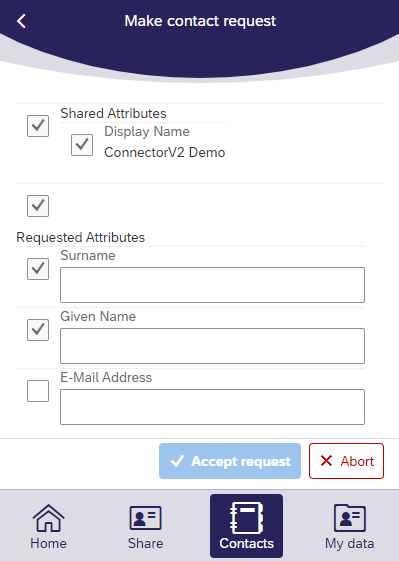
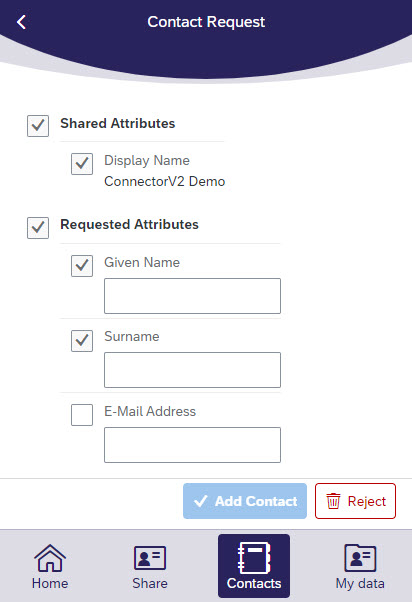
Fix/several-minor-connector-tutorial-improvements (#85)
* fix: connector tutorial improvements

* fix: typo

* chore: change comment in json

* fix: implement Simon's feedback

* feat: use copy-notice include in requests-over-templates

* chore: remember -> save

* chore: clarify that only the v2 App is not yet released

* fix: typo

diff --git a/_docs_integrate/01-connector-tutorial.md b/_docs_integrate/01-connector-tutorial.md
@@ -6,21 +6,25 @@ toc: true
 
 In this tutorial we go through the basic steps necessary to establish a Relationship to another Identity and send Messages between two Identities with an existing Relationship. This will create a better understanding of these processes, which will help you automating them for your organization.
 
-The following steps include small pieces of the Connector's API documentation that, when executed, fire requests on a Connector created for testing purposes. So if you don't have an own Connector installed, feel free to use the samples directly. Otherwise you can use your own Connector either with a REST client (e.g. [Insomnia](https://insomnia.rest/) or [Postman](https://www.postman.com/)) or by using the RapiDoc documentation (`/docs/rapidoc`) hosted on your Connector (you have to [enable docs on your connector]({% link _docs_integrate/11-connector-configuration.md %}#corehttpapi) for the documentation route to work).
+The following steps include small interactive pieces of the Connector's API documentation that, when executed, fire requests on a Connector we provided for testing purposes. Example:
+{% include rapidoc api_route_regex="^get /health$" title="" %}
 
-The payloads for the requests that will be performed during this tutorial contain placeholders marked with `<...>`. Please replace them with values.
+So if you don't have an own Connector installed, feel free to use the samples directly by unfolding them and clicking on "Try". Otherwise you can use your own Connector either with a REST client (e.g. Insomnia or Postman) or by using the RapiDoc documentation (/docs/rapidoc) hosted on your Connector.
+
+The payloads for the requests that are sent during this tutorial contain placeholders marked with `<...>`. You need to replace them with values before you send the request.
 
 # Prerequisites
 
--   If you want to use your own Connector for executing the examples
-    -   [Install the Connector]({% link _docs_integrate/10-connector-installation.md %})
-    -   Make sure the [Sync Module is disabled]({% link _docs_integrate/11-connector-configuration.md %}#sync) (because in this tutorial we will synchronize manually via the HTTP endpoint)
-    -   Get the API key configured for the Connector. Ask the person who installed the Connector for it.
--   You need the [Enmeshed App]({% link _pages/use.md %}) installed on your mobile device (in this tutorial we refer to the UI texts in English).
+-   If you want to use your own Connector for executing the examples:
+    -   [Install the Connector](https://enmeshed.eu/integrate/connector-installation)
+    -   Make sure the [Sync Module is disabled](https://enmeshed.eu/integrate/connector-configuration#sync) (because in this tutorial we will synchronize manually via the HTTP endpoint)
+    -   Make sure the [docs are enabled](https://enmeshed.eu/integrate/connector-configuration#corehttpapi) for the documentation route to work
+    -   Get the API key that was configured during installation of the Connector (it needs to be sent in the `X-API-KEY` header of every HTTP request)
+-   You need **version 2** of the [Enmeshed App]({% link _pages/use.md %}) installed on your mobile device. _Since the Enmeshed v2 app is not officially released yet, you need to [write us an email](mailto://info@enmeshed.eu?subject=Access%20to%20the%20closed%20beta%20of%20Enmeshed%20v2) with your Apple ID or the email address of your Google account you use on your phone, so we can add you to the closed beta._
 
 # Establishing Relationships
 
-In order to communicate with another Identity, a Relationship to that Identity is required. In this first part of the tutorial you will learn how to establish a Relationship between your Connector and another Identity. In this case the other Identity will be the using the App, but it could be another Connector as well.
+In order to communicate with another Identity, a Relationship to that Identity is required. In this first part of the tutorial you will learn how to establish a Relationship between your Connector and another Identity. In this case the other Identity will be the App, but it could be another Connector as well.
 
 ## Connector: Create an Attribute
 
@@ -30,7 +34,7 @@ In order to share an Attribute via a Relationship Template, we need to create on
 {
     "content": {
         "@type": "IdentityAttribute",
-        "owner": "<your connector's identity address>",
+        "owner": "<your connector's Address>",
         "value": {
             "@type": "DisplayName",
             "value": "Connector Tutorial"
@@ -44,11 +48,14 @@ You can query the Connector's Address under the route `/api/v2/Account/IdentityI
 
 {% include rapidoc api_route_regex="^post /api/v2/Attributes$" %}
 
-Remember the `id` of the Attribute that you can find in the response. You will need it in the next step.
+{% include copy-notice description="Save the `id` of the Attribute that you can find in the response. You will need it in the next step." %}
 
-## Connector: Test your Requests Validity
+## Connector: Test your Request's Validity
 
-In order to make sure the Request and its items are valid you can validate it calling the `POST /api/v2/Requests/Outgoing/Validate` route. The payload contains one group of Requests containing Attributes that will be shared to the peer and one group of Requests that queries Attributes of the peer.
+In order to make sure the Request and its items are valid you can validate it by calling the `POST /api/v2/Requests/Outgoing/Validate` route. You can define your own payload for this Request, or you can just use the one below, which contains two Request Item Groups:
+
+-   one with a Request Item that contains Attributes that will be shared with the peer
+-   one with Request Items that query Attributes of the peer
 
 ```json
 {
@@ -84,7 +91,7 @@ In order to make sure the Request and its items are valid you can validate it ca
                         "mustBeAccepted": true,
                         "query": {
                             "@type": "IdentityAttributeQuery",
-                            "valueType": "Surname"
+                            "valueType": "GivenName"
                         }
                     },
                     {
@@ -92,7 +99,7 @@ In order to make sure the Request and its items are valid you can validate it ca
                         "mustBeAccepted": true,
                         "query": {
                             "@type": "IdentityAttributeQuery",
-                            "valueType": "GivenName"
+                            "valueType": "Surname"
                         }
                     },
                     {
@@ -124,7 +131,7 @@ Start by creating a so called Relationship Template on the Connector. You can do
         "@type": "RelationshipTemplateContent",
         "title": "Connector Demo Contact",
         "onNewRelationship": {
-            // <the content validated in the step before>
+            // <the value of the 'content' property validated in the previous step>
         }
     }
 }
@@ -132,27 +139,42 @@ Start by creating a so called Relationship Template on the Connector. You can do
 
 {% include rapidoc api_route_regex="^post /api/v2/RelationshipTemplates/Own$" %}
 
-Remember the `id` of the Relationship Template that you can find in the response. You will need it in the next step.
+{% include copy-notice description="Save the `id` of the Relationship Template that you can find in the response. You will need it in the next step." %}
 
 ## Connector: Create a QRCode for the Relationship Template
 
-Since we will use the Enmeshed App to send a Relationship Request to the Connector, we further have to create a QR Code one can scan with the App to retrieve the Relationship Template and send a Relationship Request to the Connector. Execute the `GET /api/v2/RelationshipTemplates/{id}` route (Accept Header: `image/png`) to create a QRCode. Use the ID of the Relationship Template from the previous step as the value for `id`. Make sure you select `image/png` as the `Accept` header by selecting the corresponding value from the dropdown list in the bottom right of the Rapidoc route section.
+Since we will use the Enmeshed App to send a Relationship Request to the Connector, we further have to create a QR Code one can scan with the App to retrieve the Relationship Template and send a Relationship Request to the Connector.
 
-We don't care about the parameters here, so just send an empty JSON in the request body.
+For this, execute the `GET /api/v2/RelationshipTemplates/{id}` route (Accept Header: `image/png`) to create a QRCode. Use the ID of the Relationship Template from the previous step as the value for `id`.
 
 {% include rapidoc api_route_regex="^get /api/v2/RelationshipTemplates/{id}$" %}
 
 ## App: Send a Relationship Request
 
-Open the created QR Code, start the Enmeshed App, select or create a profile, navigate to "Contacts", click on "Add contact" and scan the QR Code. This will open a screen similar to the one below, where you can see the information that you have added as content to the Relationship Template.
+Open the created QR Code and start the Enmeshed App. Depending on what you already did with the App, choose one of the following paths:
+
+-   If this is the first time you use the App:
+    -   click on "Scan code"
+    -   hold the camera in front of the QR code
+-   If you want to use a new profile:
+    -   click on the "+ New profile" button
+    -   click on "Scan code"
+    -   hold the camera in front of the QR code
+-   If you want to use an existing profile:
+    -   select the existing profile
+    -   navigate to "Contacts"
+    -   click on "Add contact"
+    -   hold the camera in front of the QR code
+
+All three paths should result in a screen similar to the one below, where you can see the information that you added as content to the Relationship Template.
 
 !["Add contact" screen]( {{ '/assets/images/add-contact-screen.jpg' | relative_url }} )
 
-Finally, fill out the required fields and click on "Accept Request" to send the Relationship Request. This will create a new Relationship to the Backbone, which has the status `Pending`.
+Finally, fill out the required fields and click on "Add contact" to send the Relationship Request. This will create a new Relationship between the App and the Connector. This Relationship has the status `Pending` for now.
 
 ## Connector: Accept the Relationship Request
 
-In order to move it into the `Active` state, you now need to accept the Relationship Request with the Connector. In order to do so, first execute the `POST /api/v2/Account/Sync` route, which will fetch all changes that occurred since the last time this endpoint was executed.
+In order to move the Relationship into the `Active` state, you now need to accept the Relationship Request with the Connector. In order to do so, first execute the `POST /api/v2/Account/Sync` route, which will fetch all changes that occurred since the last time this endpoint was executed.
 
 {% include rapidoc api_route_regex="^post /api/v2/Account/Sync$" %}
 
@@ -184,7 +206,7 @@ Example:
 }
 ```
 
-Remember the `id` of the Relationship (`REL_________________`) as well as the `id` of the first Relationship Change (`RCH_________________`) in the `changes` array and use them as input to the `PUT /api/v2/Relationships/{id}/Changes/{changeId}/Accept` route. You can leave that request body as it is.
+{% include copy-notice description="Save the `id` of the Relationship (`REL_________________`) as well as the `id` of the first Relationship Change (`RCH_________________`) in the `changes` array and use them as input to the `PUT /api/v2/Relationships/{id}/Changes/{changeId}/Accept` route. You can leave that request body as it is." %}
 
 {% include rapidoc api_route_regex="^put /api/v2/Relationships/{id}/Changes/{changeId}/Accept$" %}
 
@@ -192,7 +214,7 @@ Now the Relationship is in the `Active` state, so we can start to communicate wi
 
 # Sending and Receiving Messages
 
-After you have established a Relationship to an Identity, you can start to exchange Messages. Enmeshed defines different types of Messages. For this tutorial we will focus on Messages of type Mail, which you can compare to a classic email: you can specify one or more recpipients, a subject and a body, as well as add some attachments.
+After you have established a Relationship to an Identity, you can start to exchange Messages. Enmeshed defines different types of Messages. For this tutorial we will focus on Messages of type Mail, which you can compare to a classic email: you can specify one or more recipients, a subject and a body, as well as add some attachments.
 
 ## Sending a Message with a Connector
 

diff --git a/_docs_integrate/25-requests-over-templates.md b/_docs_integrate/25-requests-over-templates.md
@@ -10,7 +10,7 @@ You can use the [Connector Installation Guide]({% link _docs_integrate/10-connec
 
 On the first Connector you will create a Template. This Connector will be called Templator in the in the following steps. The second Connector is called Requestor, because it will create the Relationship and therefore it creates the `RelationshipCreationChangeRequest`.
 
-## Check your Requests validity
+## Check your Request's validity
 
 At first you should check if your Request is valid. You can do this by calling the `POST /api/v2/Requests/Outgoing/Validate` route on the Templator Connector with the following body.
 For simplicity the Request inside the Template only contains an AuthenticationRequestItem, but you can use any [RequestItems]({% link _docs_explore/64-request-items.md %}) you want.
@@ -47,7 +47,9 @@ Create the Relationship Template on the Templator's Connector. You can do so by 
 }
 ```
 
-You will receive a response with the complete RelationshipTemplate. In this guide we will only use the Template's truncated reference and its id. Thus make sure to save the `truncatedReference` and the `id` for the next steps.
+You will receive a response with the complete RelationshipTemplate.
+
+{% include copy-notice description="Save the `truncatedReference` and the `id` of the RelationshipTemplate. You will need them in the next steps." %}
 
 ```jsonc
 {
@@ -59,7 +61,7 @@ You will receive a response with the complete RelationshipTemplate. In this guid
 
 ## Load the Template and get the Request
 
-Now you have to load the Template on the Requestor Connector. You can do so by calling the `POST /api/v2/RelationshipTemplates/Peer` route with the following content. Use the truncated reference you copied before:
+Now you have to load the Template on the Requestor Connector. You can do so by calling the `POST /api/v2/RelationshipTemplates/Peer` route with the following content. Use the `truncatedReference` you copied before:
 
 ```jsonc
 {
@@ -67,13 +69,13 @@ Now you have to load the Template on the Requestor Connector. You can do so by c
 }
 ```
 
-If no Relationship exists this will trigger a process in the Enmeshed Runtime. It will create a new incoming Request on which we will work in the next step. You can observe this by long polling the incoming Requests or by waiting for the `consumption.incomingRequestReceived` event.
+If no Relationship exists, this will trigger a process in the Enmeshed Runtime. It will create a new incoming Request on which we will work in the next step. You can observe this by long polling the incoming Requests or by waiting for the `consumption.incomingRequestReceived` event.
 
-The long polling is done by calling the `GET /api/v2/Requests/Incoming` route. You can use the query params `source.reference=<id-of-the-template>` and `status=ManualDecisionRequired` to filter only for Requests that belong to the Template you are currently working on.
+The long polling is done by calling the `GET /api/v2/Requests/Incoming` route. You can use the query params `source.reference=<id-of-the-template>` and `status=ManualDecisionRequired` to filter for Requests that belong to the Template you are currently working on.
 
 For more information about the events you can head over to the [Connector Modules site]({% link _docs_integrate/03-connector-modules.md %}) and read about the [AMQP Publisher module]({% link _docs_integrate/03-connector-modules.md %}#amqppublisher) and the [WebhooksV2 module]({% link _docs_integrate/03-connector-modules.md %}#webhooksv2) that are propagating events.
 
-If you got the Request save its `id` for the next step.
+{% include copy-notice description="After you received the Request, save its `id` for the next step." %}
 
 ## Answer the Request
 
@@ -157,7 +159,7 @@ If you synchronize the Templator Connector (`POST /api/v2/Account/Sync`) you wil
 }
 ```
 
-Especially pay attention to the `changes.0.request.content` property that contains the Response that was generated by the Enmeshed Runtime.
+Pay particular attention to the `changes.0.request.content` property that contains the Response that was generated by the Enmeshed Runtime.
 
 Now you can accept the Relationship on the Templator Connector by calling the `PUT /api/v2/Relationships/{relationshipId}/Changes/{changeId}/Accept` route.
 

diff --git a/_docs_integrate/32-connector-events.md b/_docs_integrate/32-connector-events.md
@@ -12,7 +12,7 @@ permalink: /integrate/connector-events
 | consumption.incomingRequestReceived                                                  | [LocalRequest]({% link _docs_explore/61-data-model.md %}#LocalRequest)                 | ... an incoming Request was received either by loading a Relationship Template or by receiving a Message                                                                                                                               |
 | consumption.incomingRequestStatusChanged                                             | [RequestStatusChangedEventData](#requeststatuschangedeventdata)                        | ... the status of an incoming Request has changed.                                                                                                                                                                                     |
 | consumption.messageProcessed                                                         | [MessageProcessedEventData](#messageprocessedeventdata)                                | ... a Message was processed by Modules like the `RequestModule` or `DeciderModule`.                                                                                                                                                    |
-| consumption.outgoingRquestCreated                                                    | [LocalRequest]({% link _docs_explore/61-data-model.md %}#LocalRequest)                 | ... an outgoing Request was created.                                                                                                                                                                                                   |
+| consumption.outgoingRequestCreated                                                   | [LocalRequest]({% link _docs_explore/61-data-model.md %}#LocalRequest)                 | ... an outgoing Request was created.                                                                                                                                                                                                   |
 | consumption.<br>outgoingRequestFromRelationshipCreationChange<br>CreatedAndCompleted | [LocalRequest]({% link _docs_explore/61-data-model.md %}#LocalRequest)                 | ... an outgoing Request was created and directly completed.<br>This happens if the Response came in with a new Relationship.                                                                                                           |
 | consumption.outgoingRequestStatusChanged                                             | [RequestStatusChangedEventData](#requeststatuschangedeventdata)                        | ... the status of an outgoing Request has changed.                                                                                                                                                                                     |
 | consumption.relationshipTemplateProcessed                                            | [RelationshipTemplateProcessedEventData](#relationshiptemplateprocessedeventdata)      | ... a RelationshipTemplate was processed by Modules like the `RequestModule` or `DeciderModule`.                                                                                                                                       |
